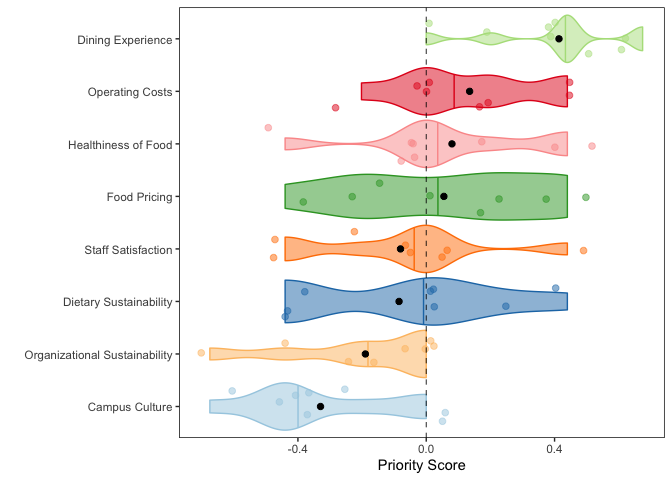
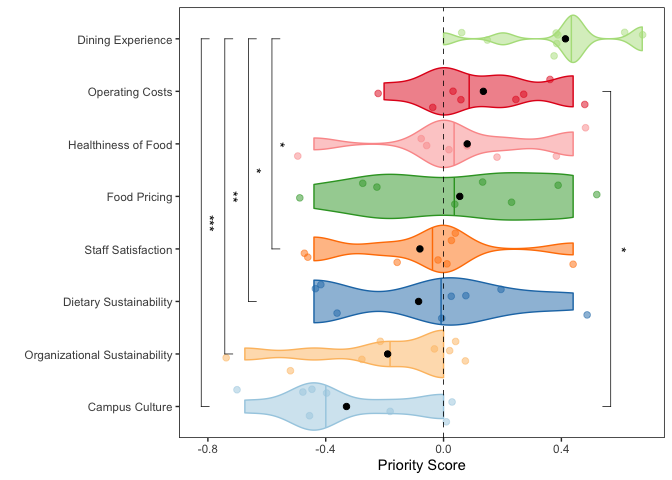
added significance bars to structural decomposition plot for primary decision makers

diff --git a/scripts/cleaning-script.md b/scripts/cleaning-script.md
@@ -835,6 +835,11 @@ pdm_holdover_survey_data %>%
   geom_violin(draw_quantiles=0.5,adjust=0.66,alpha=0.5,scale="width",trim=TRUE) + 
   geom_jitter(width=0.33,size=2,shape=21,alpha=0.5) +
   geom_hline(yintercept=0,linetype="dashed",size=0.3) +
+  geom_signif(comparisons=list(c("Dining Experience","Campus Culture")),color="black",size=0.25,annotation="***",y_position=-0.89,tip_length=-0.02,vjust=1) +
+geom_signif(comparisons=list(c("Operating Costs","Campus Culture")),color="black",size=0.25,annotation="*",y_position=0.5,tip_length=0.02,vjust=0) +
+geom_signif(comparisons=list(c("Organizational Sustainability","Dining Experience")),color="black",size=0.25,annotation="**",y_position=-0.81,tip_length=-0.02,vjust=1) +
+geom_signif(comparisons=list(c("Dietary Sustainability","Dining Experience")),color="black",size=0.25,annotation="*",y_position=-0.73,tip_length=-0.02,vjust=1) +
+geom_signif(comparisons=list(c("Staff Satisfaction","Dining Experience")),color="black",size=0.25,annotation="*",y_position=-0.65,tip_length=-0.02,vjust=1) +
   scale_fill_brewer(palette="Paired") + 
   scale_color_brewer(palette="Paired") +
   xlab("") + 
@@ -990,20 +995,18 @@ Sustainability-Guest Dining Experiences 0.0011259 Sustainability of
 Guest Food Choices-Guest Dining Experiences 0.0125558 Worker
 Satisfaction-Guest Dining Experiences 0.0138246
 
-geom_signif(comparisons=list(c(“Dining Experience”,“Staff
-Satisfaction”)),color=“black”,size=0.25,annotation=“***”,y_position=-1.4,tip_length=-0.02,vjust=1) +
-geom_signif(comparisons=list(c(”Dining Experience”,”Campus
-Culture”)),color=”black”,size=0.25,annotation=”***”,y_position=-1.3,tip_length=-0.02,vjust=1) +
-geom_signif(comparisons=list(c(“Dining Experience”,“Organizational
-Sustainability”)),color=“black”,size=0.25,annotation=“***”,y_position=-1.2,tip_length=-0.02,vjust=1) +
-geom_signif(comparisons=list(c(”Dining Experience”,”Operating
-Costs”)),color=”black”,size=0.25,annotation=”***”,y_position=-1.1,tip_length=-0.02,vjust=1) +
-geom_signif(comparisons=list(c(“Dining Experience”,“Food
+geom_signif(comparisons=list(c(“Dining Experience”,“Campus
+Culture”)),color=“black”,size=0.25,annotation=“***”,y_position=-1.3,tip_length=-0.02,vjust=1) +
+geom_signif(comparisons=list(c(”Dining Experience”,”Organizational
+Sustainability”)),color=”black”,size=0.25,annotation=”***”,y_position=-1.2,tip_length=-0.02,vjust=1) +
+geom_signif(comparisons=list(c(“Dining Experience”,“Operating
+Costs”)),color=“black”,size=0.25,annotation=“\*\**“,y_position=-1.1,tip_length=-0.02,vjust=1) +
+geom_signif(comparisons=list(c(”Dining Experience”,“Food
 Pricing”)),color=“black”,size=0.25,annotation=“**”,y_position=-1.0,tip_length=-0.02,vjust=1) +
 geom_signif(comparisons=list(c(”Dining Experience”,”Dietary
 Sustainability”)),color=”black”,size=0.25,annotation=”**”,y_position=-0.9,tip_length=-0.02,vjust=1) +
 geom_signif(comparisons=list(c(“Staff Satisfaction”,“Dietary
-Health”)),color=“black”,size=0.25,annotation=“\*“,y_position=0.6,tip_length=0.02,vjust=0.4)
+Health”)),color=“black”,size=0.25,annotation=“*”,y_position=0.6,tip_length=0.02,vjust=0.4)
 +
 
 ``` r
